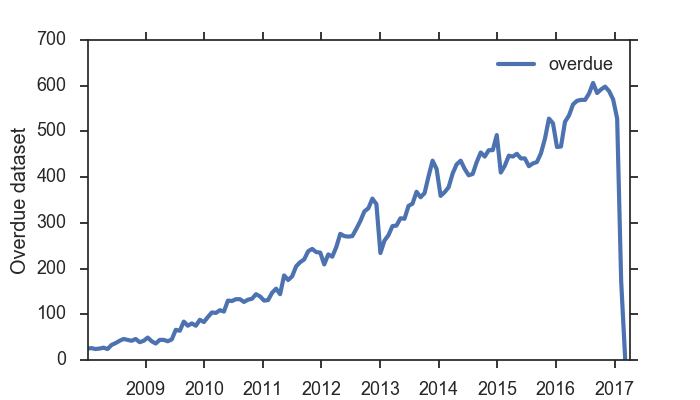
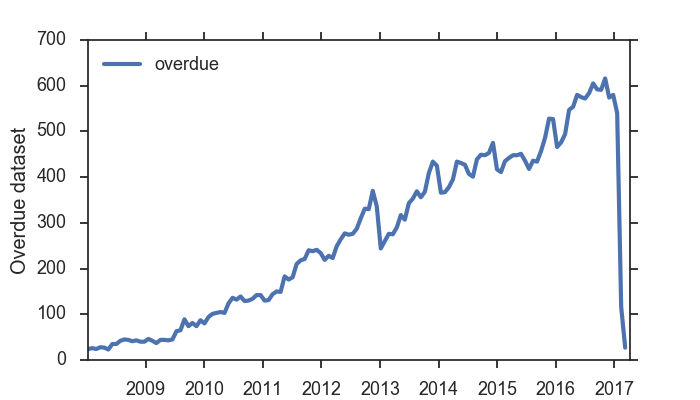
updated paper corpus

diff --git a/docs/index.html b/docs/index.html
@@ -4,21 +4,21 @@
 Open Science Data Watch
 </title>
 </head>
-
+<body>
 <center>
 <h1> Datasets overdue for publication in GEO repository </h1>
-<h3> Updated: 2017-03-09 </h3>
+<h3> Updated: 2017-03-11 </h3>
 <img src="graph.png">
 <br>
 An "overdue" dataset is one that is still has yet to be made public even after the first detected reference in a publication. 
 <br>
 <a href="https://www.ncbi.nlm.nih.gov/geo/info/faq.html#holdprivate">GEO rules</a> require authors to make the dataset public once it appears in a publication.
 <br>
-Based on <a href="https://gbnci-abcc.ncifcrf.gov/geo/">GEOmetadb</a> with timestamp: 2017-02-18 22:15:16
+Based on <a href="https://gbnci-abcc.ncifcrf.gov/geo/">GEOmetadb</a> with timestamp: 2017-03-04 22:43:36
 <br>
 </center>
 <br/><br/>
-<h4>Waiting for 2 datasets as of 2017-03-09:</h4>
+<h4>Waiting for 27 datasets as of 2017-03-11:</h4>
 <center>
 <table border="1" class="dataframe">
   <thead>
@@ -39,11 +39,186 @@ Based on <a href="https://gbnci-abcc.ncifcrf.gov/geo/">GEOmetadb</a> with timest
       <td>Messenger RNA processing is altered in autosomal dominant leukodystrophy†</td>
     </tr>
     <tr>
+      <td><a href="http://www.ncbi.nlm.nih.gov/geo/query/acc.cgi?acc=GSE73129">GSE73129</a></td>
+      <td>2016-10-11</td>
+      <td>Transl Psychiatry</td>
+      <td><a href="http://dx.doi.org/10.1038/tp.2016.154">10.1038/tp.2016.154</a></td>
+      <td>Molecular signatures associated with cognitive deficits in schizophrenia: a study of biopsied olfactory neural epithelium</td>
+    </tr>
+    <tr>
+      <td><a href="http://www.ncbi.nlm.nih.gov/geo/query/acc.cgi?acc=GSE86928">GSE86928</a></td>
+      <td>2016-12-29</td>
+      <td>Cancer Med</td>
+      <td><a href="http://dx.doi.org/10.1002/cam4.977">10.1002/cam4.977</a></td>
+      <td>TXNIP mediates the differential responses of A549 cells to sodium butyrate and sodium 4‐phenylbutyrate treatment</td>
+    </tr>
+    <tr>
+      <td><a href="http://www.ncbi.nlm.nih.gov/geo/query/acc.cgi?acc=GSE87359">GSE87359</a></td>
+      <td>2017-01-23</td>
+      <td>J Diabetes Res</td>
+      <td><a href="http://dx.doi.org/10.1155/2017/8391253">10.1155/2017/8391253</a></td>
+      <td>Transcriptional Profile of Kidney from Type 2 Diabetic db/db Mice</td>
+    </tr>
+    <tr>
       <td><a href="http://www.ncbi.nlm.nih.gov/geo/query/acc.cgi?acc=GSE74298">GSE74298</a></td>
       <td>2017-01-30</td>
       <td>Front Microbiol</td>
       <td><a href="http://dx.doi.org/10.3389/fmicb.2017.00098">10.3389/fmicb.2017.00098</a></td>
       <td>Modulation of Replicative Lifespan in Cryptococcus neoformans: Implications for Virulence</td>
+    </tr>
+    <tr>
+      <td><a href="http://www.ncbi.nlm.nih.gov/geo/query/acc.cgi?acc=GSE87550">GSE87550</a></td>
+      <td>2017-02-07</td>
+      <td>Front Mol Neurosci</td>
+      <td><a href="http://dx.doi.org/10.3389/fnmol.2017.00027">10.3389/fnmol.2017.00027</a></td>
+      <td>Rpph1 Upregulates CDC42 Expression and Promotes Hippocampal Neuron Dendritic Spine Formation by Competing with miR-330-5p</td>
+    </tr>
+    <tr>
+      <td><a href="http://www.ncbi.nlm.nih.gov/geo/query/acc.cgi?acc=GSE90500">GSE90500</a></td>
+      <td>2017-02-08</td>
+      <td>Front Physiol</td>
+      <td><a href="http://dx.doi.org/10.3389/fphys.2017.00055">10.3389/fphys.2017.00055</a></td>
+      <td>A Signature of Circulating microRNAs Predicts the Susceptibility of Acute Mountain Sickness</td>
+    </tr>
+    <tr>
+      <td><a href="http://www.ncbi.nlm.nih.gov/geo/query/acc.cgi?acc=GSE84886">GSE84886</a></td>
+      <td>2017-02-13</td>
+      <td>PLoS One</td>
+      <td><a href="http://dx.doi.org/10.1371/journal.pone.0171372">10.1371/journal.pone.0171372</a></td>
+      <td>Longitudinal analysis of hepatic transcriptome and serum metabolome demonstrates altered lipid metabolism following the onset of hyperglycemia in spontaneously diabetic biobreeding rats</td>
+    </tr>
+    <tr>
+      <td><a href="http://www.ncbi.nlm.nih.gov/geo/query/acc.cgi?acc=GSE91397">GSE91397</a></td>
+      <td>2017-02-13</td>
+      <td>Front Immunol</td>
+      <td><a href="http://dx.doi.org/10.3389/fimmu.2017.00121">10.3389/fimmu.2017.00121</a></td>
+      <td>Zebra Fish Lacking Adaptive Immunity Acquire an Antiviral Alert State Characterized by Upregulated Gene Expression of Apoptosis, Multigene Families, and Interferon-Related Genes</td>
+    </tr>
+    <tr>
+      <td><a href="http://www.ncbi.nlm.nih.gov/geo/query/acc.cgi?acc=GSE89168">GSE89168</a></td>
+      <td>2017-02-14</td>
+      <td>Sci Rep</td>
+      <td><a href="http://dx.doi.org/10.1038/srep42586">10.1038/srep42586</a></td>
+      <td>A pupal transcriptomic screen identifies Ral as a target of store-operated calcium entry in Drosophila neurons</td>
+    </tr>
+    <tr>
+      <td><a href="http://www.ncbi.nlm.nih.gov/geo/query/acc.cgi?acc=GSE89612">GSE89612</a></td>
+      <td>2017-02-14</td>
+      <td>Front Immunol</td>
+      <td><a href="http://dx.doi.org/10.3389/fimmu.2017.00141">10.3389/fimmu.2017.00141</a></td>
+      <td>Human Lymph Node-Derived Fibroblastic and Double-Negative Reticular Cells Alter Their Chemokines and Cytokines Expression Profile Following Inflammatory Stimuli</td>
+    </tr>
+    <tr>
+      <td><a href="http://www.ncbi.nlm.nih.gov/geo/query/acc.cgi?acc=GSE87851">GSE87851</a></td>
+      <td>2017-02-14</td>
+      <td>Front Plant Sci</td>
+      <td><a href="http://dx.doi.org/10.3389/fpls.2017.00191">10.3389/fpls.2017.00191</a></td>
+      <td>Possible Role of MADS AFFECTING FLOWERING 3 and B-BOX DOMAIN PROTEIN 19 in Flowering Time Regulation of Arabidopsis Mutants with Defects in Nonsense-Mediated mRNA Decay</td>
+    </tr>
+    <tr>
+      <td><a href="http://www.ncbi.nlm.nih.gov/geo/query/acc.cgi?acc=GSE89764">GSE89764</a></td>
+      <td>2017-02-16</td>
+      <td>Nat Commun</td>
+      <td><a href="http://dx.doi.org/10.1038/ncomms14395">10.1038/ncomms14395</a></td>
+      <td>microRNA-17 family promotes polycystic kidney disease progression through modulation of mitochondrial metabolism</td>
+    </tr>
+    <tr>
+      <td><a href="http://www.ncbi.nlm.nih.gov/geo/query/acc.cgi?acc=GSE87304">GSE87304</a></td>
+      <td>2017-02-16</td>
+      <td>Sci Rep</td>
+      <td><a href="http://dx.doi.org/10.1038/srep42713">10.1038/srep42713</a></td>
+      <td>Her2 alterations in muscle-invasive bladder cancer: Patient selection beyond protein expression for targeted therapy</td>
+    </tr>
+    <tr>
+      <td><a href="http://www.ncbi.nlm.nih.gov/geo/query/acc.cgi?acc=GSE89534">GSE89534</a></td>
+      <td>2017-02-17</td>
+      <td>Front Microbiol</td>
+      <td><a href="http://dx.doi.org/10.3389/fmicb.2017.00244">10.3389/fmicb.2017.00244</a></td>
+      <td>Transcriptional Reprogramming at Genome-Scale of Lactobacillus plantarum WCFS1 in Response to Olive Oil Challenge</td>
+    </tr>
+    <tr>
+      <td><a href="http://www.ncbi.nlm.nih.gov/geo/query/acc.cgi?acc=GSE76772">GSE76772</a></td>
+      <td>2017-02-17</td>
+      <td>BMC Genomics</td>
+      <td><a href="http://dx.doi.org/10.1186/s12864-017-3563-3">10.1186/s12864-017-3563-3</a></td>
+      <td>Transcriptomic dynamics of breast cancer progression in the MMTV-PyMT mouse model</td>
+    </tr>
+    <tr>
+      <td><a href="http://www.ncbi.nlm.nih.gov/geo/query/acc.cgi?acc=GSE90599">GSE90599</a></td>
+      <td>2017-02-18</td>
+      <td>J Exp Clin Cancer Res</td>
+      <td><a href="http://dx.doi.org/10.1186/s13046-017-0497-1">10.1186/s13046-017-0497-1</a></td>
+      <td>Che-1 sustains hypoxic response of colorectal cancer cells by affecting Hif-1α stabilization</td>
+    </tr>
+    <tr>
+      <td><a href="http://www.ncbi.nlm.nih.gov/geo/query/acc.cgi?acc=GSE85760">GSE85760</a></td>
+      <td>2017-02-20</td>
+      <td>Sci Rep</td>
+      <td><a href="http://dx.doi.org/10.1038/srep43044">10.1038/srep43044</a></td>
+      <td>Genome-wide primary transcriptome analysis of H2-producing archaeon Thermococcus onnurineus NA1</td>
+    </tr>
+    <tr>
+      <td><a href="http://www.ncbi.nlm.nih.gov/geo/query/acc.cgi?acc=GSE89899">GSE89899</a></td>
+      <td>2017-02-20</td>
+      <td>BMC Genomics</td>
+      <td><a href="http://dx.doi.org/10.1186/s12864-017-3593-x">10.1186/s12864-017-3593-x</a></td>
+      <td>Chronic nicotine differentially affects murine transcriptome profiling in isolated cortical interneurons and pyramidal neurons</td>
+    </tr>
+    <tr>
+      <td><a href="http://www.ncbi.nlm.nih.gov/geo/query/acc.cgi?acc=GSE76290">GSE76290</a></td>
+      <td>2017-02-21</td>
+      <td>Nat Commun</td>
+      <td><a href="http://dx.doi.org/10.1038/ncomms14294">10.1038/ncomms14294</a></td>
+      <td>An integrative approach unveils FOSL1 as an oncogene vulnerability in KRAS-driven lung and pancreatic cancer</td>
+    </tr>
+    <tr>
+      <td><a href="http://www.ncbi.nlm.nih.gov/geo/query/acc.cgi?acc=GSE82037">GSE82037</a></td>
+      <td>2017-02-22</td>
+      <td>Sci Rep</td>
+      <td><a href="http://dx.doi.org/10.1038/srep42633">10.1038/srep42633</a></td>
+      <td>Transcriptomic responses of the olive fruit fly Bactrocera oleae and its symbiont Candidatus Erwinia dacicola to olive feeding</td>
+    </tr>
+    <tr>
+      <td><a href="http://www.ncbi.nlm.nih.gov/geo/query/acc.cgi?acc=GSE74062">GSE74062</a></td>
+      <td>2017-02-23</td>
+      <td>JCI Insight</td>
+      <td><a href="http://dx.doi.org/10.1172/jci.insight.89044">10.1172/jci.insight.89044</a></td>
+      <td>Switching harmful visceral fat to beneficial energy combustion improves metabolic dysfunctions</td>
+    </tr>
+    <tr>
+      <td><a href="http://www.ncbi.nlm.nih.gov/geo/query/acc.cgi?acc=GSE94086">GSE94086</a></td>
+      <td>2017-02-23</td>
+      <td>Epigenetics Chromatin</td>
+      <td><a href="http://dx.doi.org/10.1186/s13072-017-0115-7">10.1186/s13072-017-0115-7</a></td>
+      <td>SMYD5 regulates H4K20me3-marked heterochromatin to safeguard ES cell self-renewal and prevent spurious differentiation</td>
+    </tr>
+    <tr>
+      <td><a href="http://www.ncbi.nlm.nih.gov/geo/query/acc.cgi?acc=GSE93266">GSE93266</a></td>
+      <td>2017-02-23</td>
+      <td>BMC Med Genomics</td>
+      <td><a href="http://dx.doi.org/10.1186/s12920-017-0248-3">10.1186/s12920-017-0248-3</a></td>
+      <td>Epigenetic modifications and glucocorticoid sensitivity in Myalgic Encephalomyelitis/Chronic Fatigue Syndrome (ME/CFS)</td>
+    </tr>
+    <tr>
+      <td><a href="http://www.ncbi.nlm.nih.gov/geo/query/acc.cgi?acc=GSE73593">GSE73593</a></td>
+      <td>2017-02-24</td>
+      <td>Sci Rep</td>
+      <td><a href="http://dx.doi.org/10.1038/srep43166">10.1038/srep43166</a></td>
+      <td>Comprehensive analysis of long non-coding RNAs highlights their spatio-temporal expression patterns and evolutional conservation in Sus scrofa</td>
+    </tr>
+    <tr>
+      <td><a href="http://www.ncbi.nlm.nih.gov/geo/query/acc.cgi?acc=GSE84443">GSE84443</a></td>
+      <td>2017-02-24</td>
+      <td>Sci Rep</td>
+      <td><a href="http://dx.doi.org/10.1038/srep43226">10.1038/srep43226</a></td>
+      <td>Genome-wide screening and characterization of long non-coding RNAs involved in flowering development of trifoliate orange (Poncirus trifoliata L. Raf.)</td>
+    </tr>
+    <tr>
+      <td><a href="http://www.ncbi.nlm.nih.gov/geo/query/acc.cgi?acc=GSE86851">GSE86851</a></td>
+      <td>2017-02-27</td>
+      <td>Sci Rep</td>
+      <td><a href="http://dx.doi.org/10.1038/srep43648">10.1038/srep43648</a></td>
+      <td>Aorta macrophage inflammatory and epigenetic changes in a murine model of obstructive sleep apnea: Potential role of CD36</td>
     </tr>
   </tbody>
 </table>
@@ -63,5 +238,6 @@ Source code available on <a href="https://github.com/WideOpen/datawatch">GitHub<
 
 </script>
 
+</body>
 </html>
 
